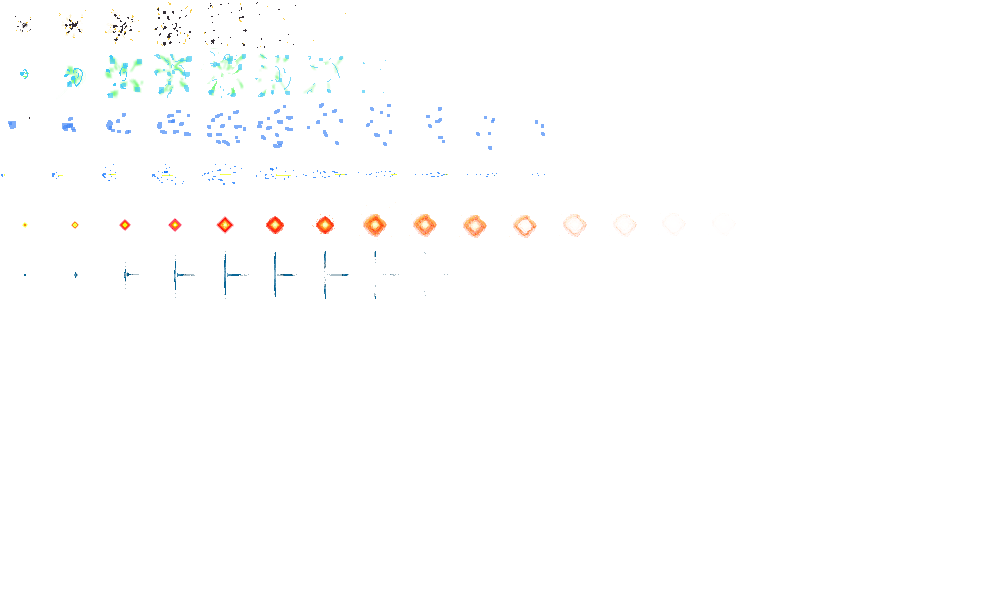
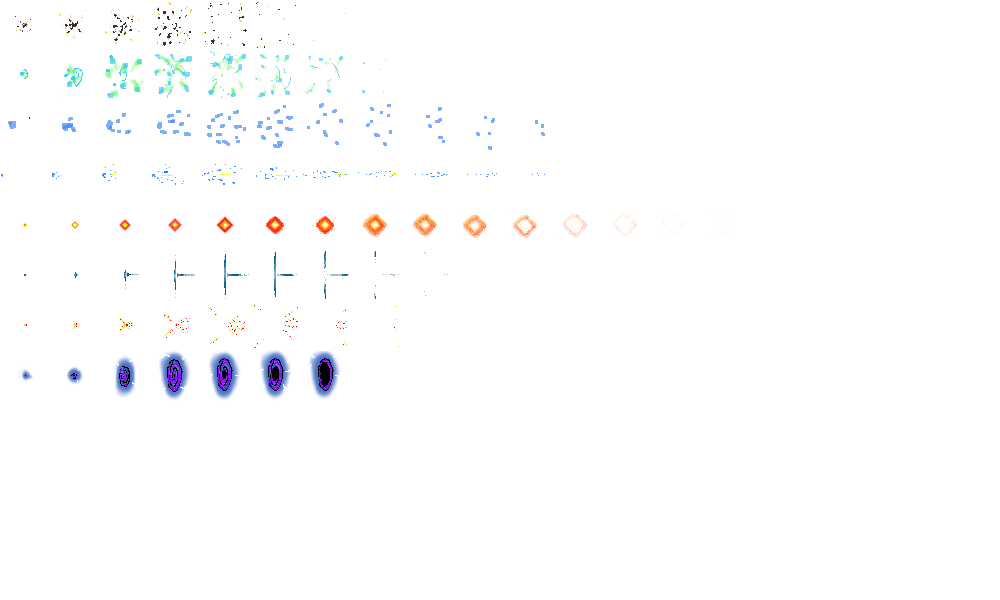
adding portals for boss

Changed region(s): [[0.062, 0.57, 0.341, 0.66], [0.0, 0.6, 0.031, 0.63]]

diff --git a/app/scripts/game/app.js b/app/scripts/game/app.js
@@ -231,7 +231,7 @@ define( [ 'game/models/models', 'hu','game/entities','game/scenario', 'levelsDir
 
   function start() {
     preloadSounds();
-    LEVELS_DIRECTOR.init(5,1,1);
+    LEVELS_DIRECTOR.init(5,6,1);
     //LEVELS_DIRECTOR.init(5,1,20);
     canvas = document.getElementById("canvas");
     reset();
@@ -513,14 +513,6 @@ define( [ 'game/models/models', 'hu','game/entities','game/scenario', 'levelsDir
 
   function blueShoot(pos){
     bullets.push(EL.getEntity('bluebullet', {pos: pos,damage: 200}));
-    playSound(SOUNDS.shoot);
-  }
-
-  function enemyShoot(pos, damage){
-    var bullet = EL.getEntity('bullet', {pos: pos, damage: damage });
-    bullet.angle = 1;
-    bullet.speed = [300,300];
-    enemyBullets.push(bullet);
     playSound(SOUNDS.shoot);
   }
 
@@ -891,21 +883,39 @@ define( [ 'game/models/models', 'hu','game/entities','game/scenario', 'levelsDir
     });
   }
   function playAction(action, entity){
+    var lifePercent = entity.life / entity.totalLife;
+    var life = 'normal';
+    if(lifePercent < 0.7 && lifePercent > 0.4 ){
+      life = 'damaged';
+    }else if(lifePercent < 0.4){
+      life = 'verydamaged';
+    }
+    
     if(action =='enemyShoot'){
-      entity.setAnimation('shootnormal');
-      enemyShoot(entity.pos, entity.damage);
+      entity.setAnimation('shoot'+life);
+      enemyShoot(entity);
     }else if(action == 'talk'){
       var phrases = ['killer', 'power','grunt'];
       var chosenPhrase = phrases[parseInt(Math.random() * phrases.length, 10)];
-      entity.setAnimation('talknormal');
+      entity.setAnimation('talk'+life);
       playSound(SOUNDS[chosenPhrase]);
       
       var message = new models.Message(MESSAGES[chosenPhrase], main_enemy_name, 1500);
       showMessages([message]);
     }else if(action == 'launchEnemy'){
-      enemies.push(EL.getEnemy(entity.pos, Math.ceil(Math.random() *5 )));
-      entity.setAnimation('standbynormal');
+      var enemy = EL.getEnemy([entity.pos[0] - 30,entity.pos[1]], Math.ceil(Math.random() *5 ));
+      enemies.push(enemy);
+      miscelanea.push(EL.getEntity('portal', {pos: enemy.pos, speed: entity.speed, angle: entity.angle}));
+      entity.setAnimation('standby'+life);
     };
+  }
+
+  function enemyShoot(entity){
+    var bullet = EL.getEntity(entity.bulletName, {pos: entity.pos, damage: entity.damage, angle: entity.angle });
+    bullet.speed = [300,300];
+    enemyBullets.push(bullet);
+    miscelanea.push(EL.getEntity(entity.bulletShotFireName, {pos: entity.pos, speed: entity.speed, angle: entity.angle}));
+    playSound(SOUNDS.shoot);
   }
 
   function getBossActions(){

diff --git a/app/scripts/game/entities.js b/app/scripts/game/entities.js
@@ -90,6 +90,8 @@ define( [ 'game/models/models','game/petra'], function(Models,petra){
   var bulletCasingSpriteSheet = ['images/sparks/sparks.png', [0,150], [50,50], 14 , [0,1,2,3,4,5,6,7,8,9,10], null, true];
   var sparkSpriteSheet = ['images/sparks/sparks.png', [0,200], [50,50], 18 , [0,1,2,3,4,5,6,7,8,9,10,11,12,13], null, true];
   var shootFireSpriteSheet = ['images/sparks/sparks.png', [0,250], [50,50], 20 , [0,1,2,3,4,5,6,7], null, true];
+  var bossShotFireSpriteSheet = ['images/sparks/sparks.png', [0,300], [50,50], 20 , [0,1,2,3,4,5,6,7], null, true];
+  var portalSpriteSheet = ['images/sparks/sparks.png', [0,350], [50,50], 20 , [0,1,2,3,4,5,6,5,4,3,2,1,0], null, true];
 
   var nebulaSpriteSheet = ['images/nebula/nebula1.png', [0,0], [1030,780], 1 , [0]]
   var nebula2SpriteSheet = ['images/nebula/nebula2.png', [0,0], [1023,771], 1 , [0]]
@@ -281,7 +283,10 @@ define( [ 'game/models/models','game/petra'], function(Models,petra){
       speed: [25,25],
       points: 10000,
       totalLife: 10000,
+      angle: 1,
       life: 10000,
+      bulletName: 'bullet',
+      bulletShotFireName: 'bossShootFire',
       sprite: bossSpriteDefinition.normal.standby,
       animations: [
        {
@@ -336,6 +341,17 @@ define( [ 'game/models/models','game/petra'], function(Models,petra){
       sprite: bulletCasingSpriteSheet,
       resize: [100,100],
       renderTranslated: [-20,40],
+      speed: [0,0]
+    },
+    'bossShootFire':{
+      sprite: bossShotFireSpriteSheet,
+      resize: [25,25],
+      renderTranslated: [15,5],
+      speed: [0,0]
+    },'portal':{
+      sprite: portalSpriteSheet,
+      resize: [100,100],
+      renderTranslated: [10,30],
       speed: [0,0]
     },
     'spark':{
@@ -413,11 +429,7 @@ define( [ 'game/models/models','game/petra'], function(Models,petra){
   }
 
   function GameEntity(entityDefinition, opts){
-    try{
     entityDefinition.pos = opts.pos;
-    }catch(e){
-      console.log(e, entityDefinition, opts );
-    }
     var entity =  new Models.Entity(entityDefinition);
     
     if(opts.damage){

diff --git a/app/styles/main.scss b/app/styles/main.scss
@@ -382,8 +382,8 @@ img {
             &.cooldogdamaged{
                 background-image:url('../images/messages/cooldogdamaged.png');
             }
-            &.creeper{
-                background-image:url('../images/messages/creeper.png');
+            &.boss_1{
+                background-image:url('../images/messages/boss_1.png');
             }
             &.dog{
                 background-image:url('../images/messages/dog.png');

diff --git a/app/scripts/game/models/models.js b/app/scripts/game/models/models.js
@@ -34,6 +34,8 @@ define( ['game/models/scene'], function(Scene){
     this.renderTranslated = opts.renderTranslated || null;
     this.animations = {};
     this.rotateSprite = opts.rotateSprite ? opts.rotateSprite : null;
+    this.bulletName = opts.bulletName || null;
+    this.bulletShotFireName = opts.bulletShotFireName || null;
     if(opts.resize){
       this.sprite.resize(opts.resize[0], opts.resize[1]);
     }
